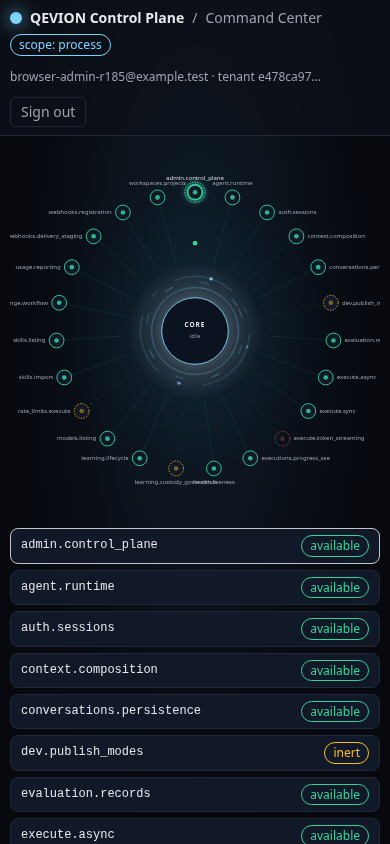
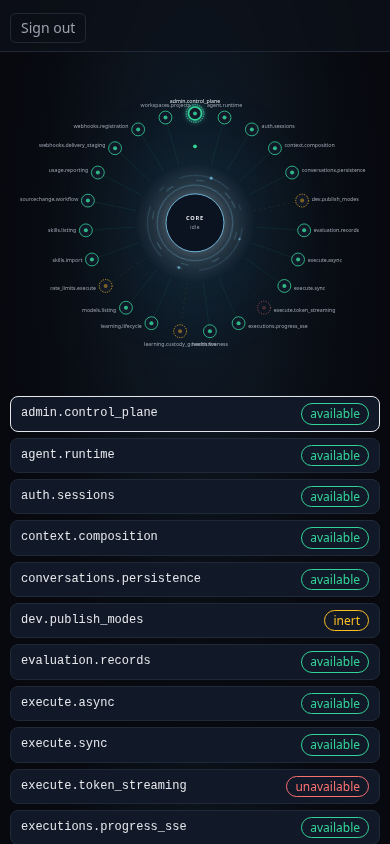
r185 polish: stagger top/bottom labels by parity

diff --git a/ui/app/command/command.js b/ui/app/command/command.js
@@ -266,7 +266,7 @@ function renderTopology(catalog) {
     const radial = Math.abs(cos) > 0.3;
     const label = svgEl("text", {
       x: radial ? x + (cos > 0 ? 24 : -24) : x,
-      y: radial ? y + 4 + sin * 10 : y + (sin >= 0 ? 36 : -26),
+      y: radial ? y + 4 + sin * 10 : y + (sin >= 0 ? 36 + (i % 2) * 14 : -26 - (i % 2) * 14),
       "text-anchor": radial ? (cos > 0 ? "start" : "end") : "middle",
       class: "node-label",
     });
